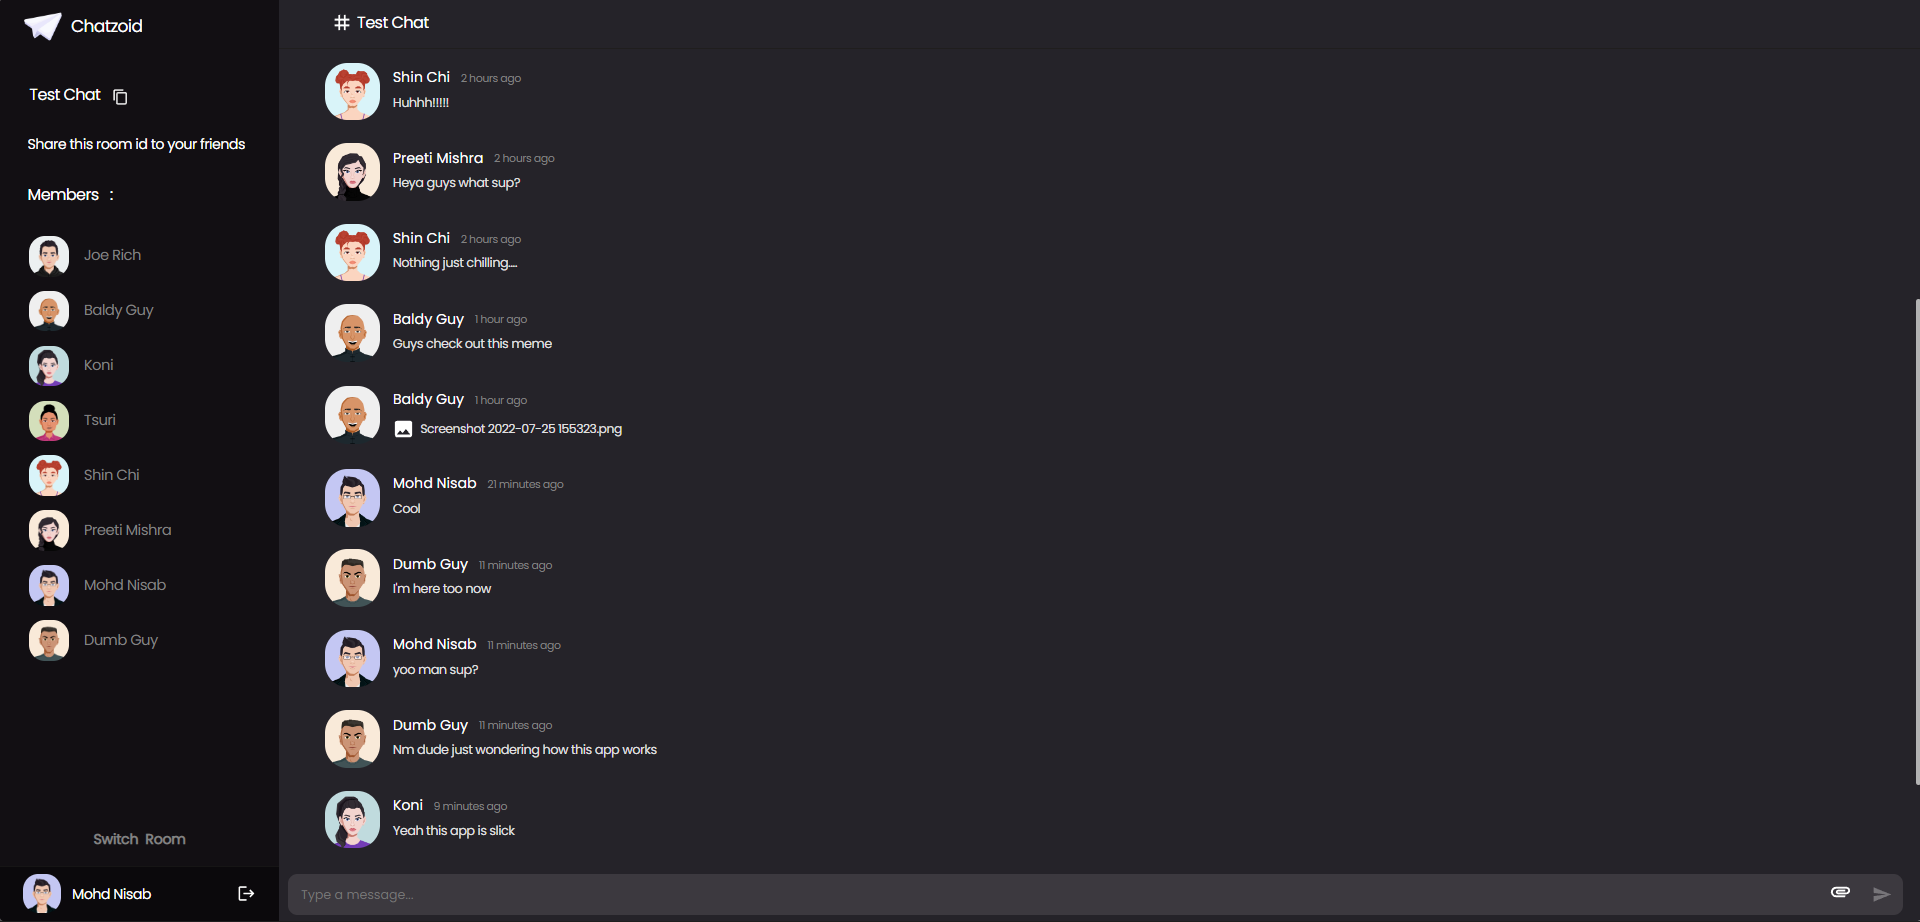
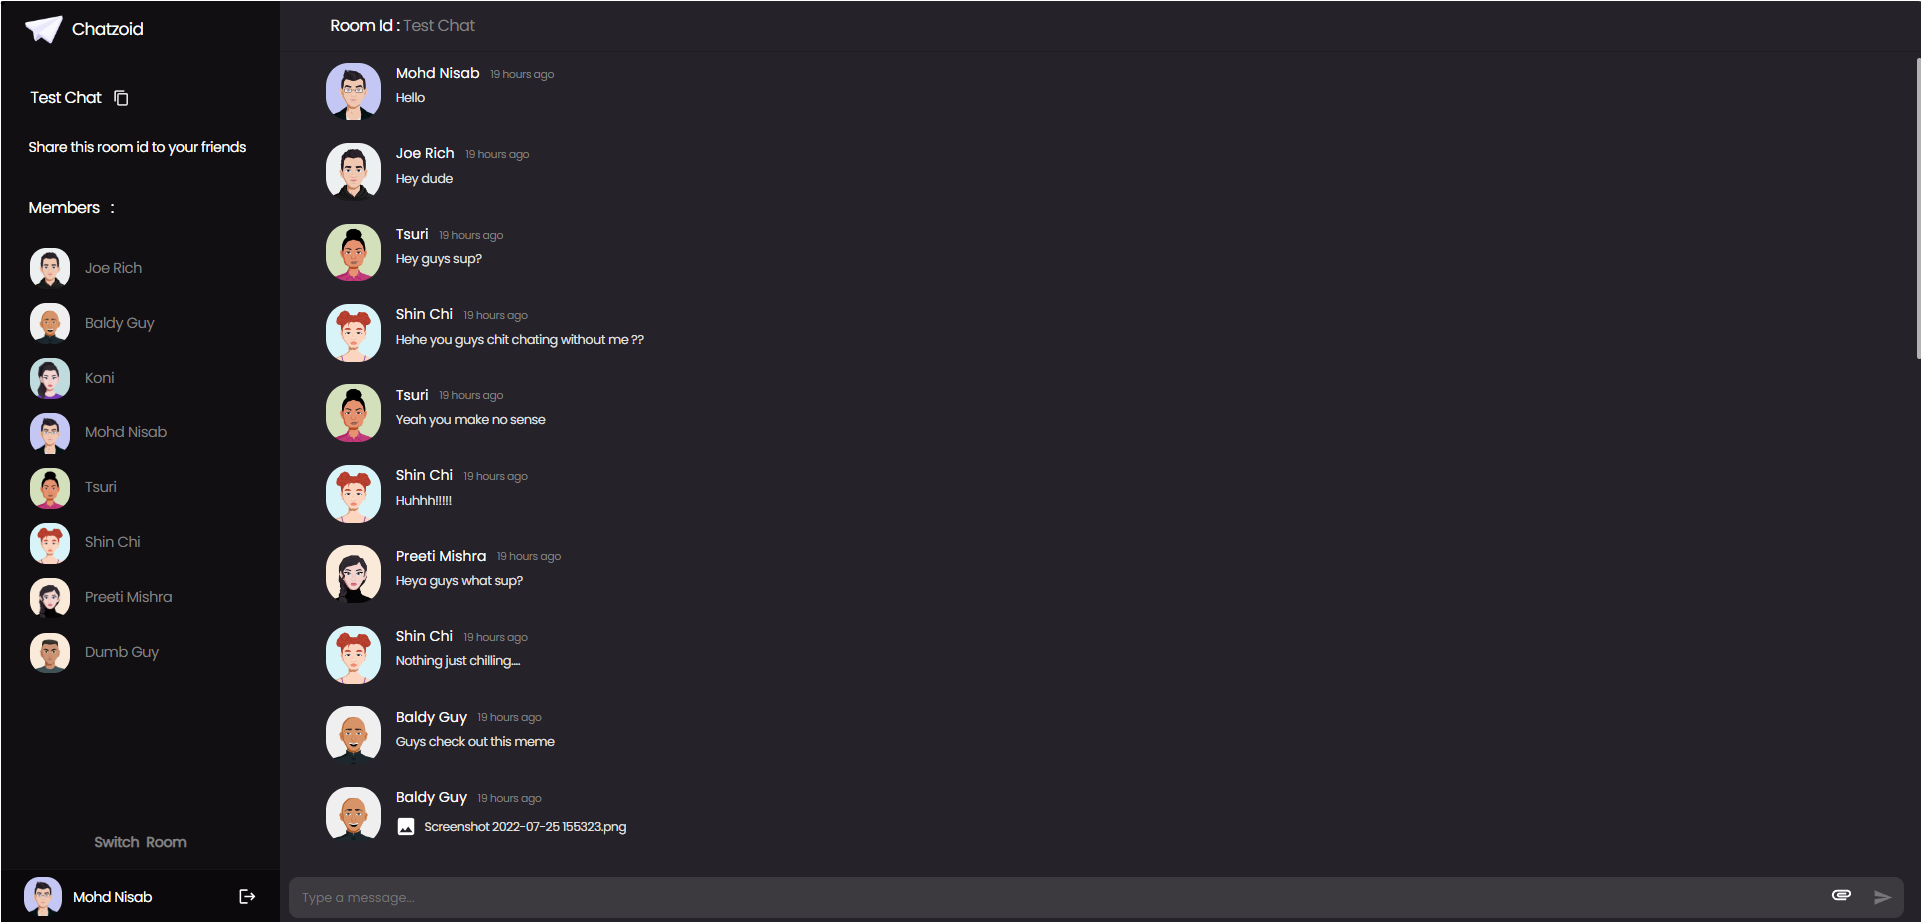
some awesome ui enhancement

diff --git a/src/Chat.jsx b/src/Chat.jsx
@@ -146,7 +146,7 @@ function Chat(props) {
             </div>
             <div className="uploadprogress">
                 {
-                    uploading ? (<LinearProgress sx={{ height: '2px' }} />) : (<></>)
+                    uploading ? (<LinearProgress sx={{ height: '1px' }} />) : (<></>)
                 }
             </div>
 
@@ -184,30 +184,30 @@ function Chat(props) {
                                             </div>
                                             {
                                                 item.text.includes('http') ? (
-                                                    <div className="file" style={{ border: '0px solid #616161', borderRadius: '9px', padding: '2px 2px', marginTop: '5px', backgroundColor: '', paddingBottom: '3px', overflowX: 'scroll', marginBottom: '-3px', zIndex: '99' }}>
-                                                        <a key={index} href={item.text} target="_blank" className="chat__body__message" rel="noreferrer" style={{ display: 'flex', alignItems: 'center', paddingTop: '0px', textDecoration: 'none', MarginRight: '9px', marginLeft: '-3px', marginBottom: '-3px',fontSize:'13px' }}>
+                                                    <div className="file" style={{ border: '0px solid #616161', borderRadius: '9px', padding: '2px 2px', marginTop: '5px', backgroundColor: '', paddingBottom: '3px', overflowX: 'scroll', marginBottom: '0px', zIndex: '99',minWidth:'inherit' }}>
+                                                        <a key={index} href={item.text} target="_blank" className="chat__body__message" rel="noreferrer" style={{  paddingTop: '0px', textDecoration: 'none', MarginRight: '9px', marginLeft: '-3px', marginBottom: '-3px',fontSize:'13px' }}>
                                                             {
 
                                                                 (item.filetype === "image/png" || item.filetype === "image/jpg" || item.filetype === "image/jpeg") ? (
-                                                                    <ImageIcon style={{ marginRight: '6px', fontSize: '24px',color:'white' }}></ImageIcon>
+                                                                    <ImageIcon style={{ marginRight: '7.5px', fontSize: '24px',color:'white' }}></ImageIcon>
                                                                 ) : (<></>)
                                                             }
                                                             {
 
                                                                 (item.filetype === "application/pdf") ? (
-                                                                    <PictureAsPdfIcon sx={{ color: red[500] }} style={{ marginRight: '6px', fontSize: '24px' }}></PictureAsPdfIcon>
+                                                                    <PictureAsPdfIcon sx={{ color: red[500] }} style={{ marginRight: '7.5px', fontSize: '24px' }}></PictureAsPdfIcon>
                                                                 ) : (<></>)
                                                             }
                                                             {
 
                                                                 (item.filetype === "audio/mpeg") ? (
-                                                                    <LibraryMusicIcon sx={{ color: teal[500] }} style={{ marginRight: '6px', fontSize: '24px' }}></LibraryMusicIcon>
+                                                                    <LibraryMusicIcon sx={{ color: teal[500] }} style={{ marginRight: '7.5px', fontSize: '24px' }}></LibraryMusicIcon>
                                                                 ) : (<></>)
                                                             }
                                                             {
 
                                                                 (item.filetype === "video/mp4") ? (
-                                                                    <VideocamIcon color="secondary" style={{ marginRight: '6px', fontSize: '24px' }}></VideocamIcon>
+                                                                    <VideocamIcon color="secondary" style={{ marginRight: '7.5px', fontSize: '24px' }}></VideocamIcon>
                                                                 ) : (<></>)
                                                             }
                                                             {

diff --git a/src/Leftbar.js b/src/Leftbar.js
@@ -75,7 +75,7 @@ export const Leftbar = (props) => {
       <Toaster />
       <div className="hamburger">
         {
-          (!show) ? (<button onClick={() => { menu() }} style={{ width: 'fit-content', margin: '0', outline: 'none', border: 'none', backgroundColor: 'transparent', cursor: 'pointer' }}><MenuIcon style={{ margin: '0', fontSize: '22px', marginBottom: '-6.15px', color: 'white',marginLeft:'-7.95px' }} ></MenuIcon></button>) : (<button onClick={() => { menu() }} style={{ width: 'fit-content', margin: '0', outline: 'none', border: 'none', backgroundColor: 'transparent', cursor: 'pointer', color: 'white' }}><ArrowBackIosNewIcon style={{ fontSize: '18px', marginBottom: '-8.85px' }}></ArrowBackIosNewIcon></button>)
+          (!show) ? (<button onClick={() => { menu() }} style={{ width: 'fit-content', margin: '0', outline: 'none', border: 'none', backgroundColor: 'transparent', cursor: 'pointer' }}><MenuIcon style={{ margin: '0', fontSize: '22px', marginBottom: '-6.15px', color: 'white',marginLeft:'-4.95px' }} ></MenuIcon></button>) : (<button onClick={() => { menu() }} style={{ width: 'fit-content', margin: '0', outline: 'none', border: 'none', backgroundColor: 'transparent', cursor: 'pointer', color: 'white' }}><ArrowBackIosNewIcon style={{ fontSize: '18px', marginBottom: '-8.85px' }}></ArrowBackIosNewIcon></button>)
         }
 
       </div>
@@ -89,7 +89,7 @@ export const Leftbar = (props) => {
         </div>
 
         <div className="rommspecificidandp" style={{ display: 'flex', flexDirection: 'row', alignItems: 'center', marginTop: '34px' }}>
-          <p style={{ color: 'white', font: 'Noto Sans', fontWeight: '500', fontStyle: 'normal', fontSize: '16.85px', letterSpacing: '-0.035em', marginLeft: '31px', marginRight: '26px', display: 'flex', flexDirection: 'row', alignItems: 'center' }}>{props.roomid}<ContentCopyIcon style={{ marginLeft: '12px', width: '18.25px', marginBottom: '-6px', cursor: 'pointer',color:'white' }} onClick={() => { navigator.clipboard.writeText(props.roomid); toast.success('Room id copied to clipboard',{
+          <p style={{ color: 'white', font: 'Noto Sans', fontWeight: '500', fontStyle: 'normal', fontSize: '16.85px', letterSpacing: '-0.035em', marginLeft: '31px', marginRight: '26px', display: 'flex', flexDirection: 'row', alignItems: 'center' }}>{props.roomid}<ContentCopyIcon style={{ marginLeft: '12px', width: '18.25px', marginBottom: '-1.8px', cursor: 'pointer',color:'white' }} onClick={() => { navigator.clipboard.writeText(props.roomid); toast.success('Room id copied to clipboard',{
                 style: {
                     fontFamily: 'Poppins',
                     fontSize: '12.5px'

diff --git a/src/css/chatpage.css b/src/css/chatpage.css
@@ -86,9 +86,11 @@
     width: 55px;
     height: 57px;
     border-radius: 7px;
-    margin-top: -6px;
-    margin-right: 1px;
-    margin-left: 0.95vw
+    margin-top: 3px;
+    margin-right: 3px;
+    margin-left: 0.95vw;
+    display: flex;
+    justify-content: start;
 }
 
 .imgboximg {
@@ -125,7 +127,7 @@
     }
 
     .memheader {
-        margin-top: 22px;
+        margin-top: 12px;
     }
 }
 
@@ -148,7 +150,6 @@
 .chat__body__message {
     display: flex;
     flex-direction: row;
-    align-items: center;
     font-family: 'Poppins';
     font-style: normal;
     font-weight: 500;
@@ -162,11 +163,9 @@
 }
 
 .messageboxcont {
-    width: 80%;
     margin-top: 19px;
     margin-bottom: 0px;
     display: flex;
-    align-items: center;
     margin-left: 28.75px;
     padding-top: 6px;
 }

diff --git a/src/Navbar.js b/src/Navbar.js
@@ -5,8 +5,9 @@ import TagIcon from '@mui/icons-material/Tag';
 export default function AccountMenu(props) {
     return (
         <div className='navbarmenu' >
-            <TagIcon sx={{marginLeft:'0.95vw',}}/>
-            <h5 style={{marginLeft:'4px',color:'white',font:'Noto Sans',fontWeight:'500',fontStyle:'normal',fontSize:'17px',letterSpacing:'-0.035em'}}>{props.roomid}</h5>
+            {/* <TagIcon sx={{marginLeft:'0.95vw',}}/> */}
+            
+            <h5 style={{marginLeft:'0.9vw',font:'Noto Sans',fontWeight:'500',fontStyle:'normal',fontSize:'17px',letterSpacing:'-0.035em',color:'rgb(130, 130, 130)'}}><span style={{color:'white'}}>Room Id : </span> {props.roomid}</h5>
         </div>
     );
 }

diff --git a/src/css/Responsive.css b/src/css/Responsive.css
@@ -23,10 +23,6 @@
         padding-left: 42px;
     }
 
-    .chat__body__message {
-        width: 90%;
-    }
-
     .chat__footer {
         width: 91vw;
     }
